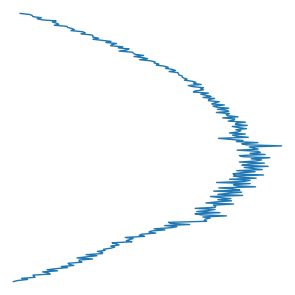
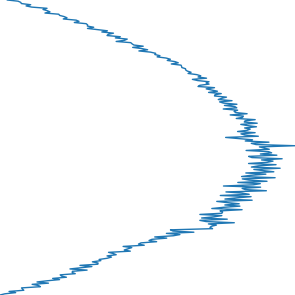
chore: Refactor code for generating horizontal and vertical sum plots
The code has been refactored to improve the generation of horizontal and vertical sum plots. The previous implementation used the `figure` function from `matplotlib.pyplot`, which has been replaced with the `subplots` function to provide more control over the plot size and resolution. The margins and layout have also been adjusted to remove unnecessary whitespace.

Changed region(s): [[0.0, 0.0, 1.0, 1.0]]

diff --git a/main.py b/main.py
@@ -2,7 +2,6 @@ import cv2
 import os
 import matplotlib.pyplot as plt
 import numpy as np
-from matplotlib.pyplot import figure
 from PIL import Image
 
 files = os.listdir("data")
@@ -30,29 +29,53 @@ for file in files:
     hsumup = [0] * len(gray)
     vsumup = [0] * len(gray[0])
 
-    #
-    # print (len(gray), " - ", len(gray[0]))
-
     for column in range(len(gray)):
         for line in range(len(gray[column])):
             hsumup[column] += int(gray[column][line])
             vsumup[line] += int(gray[column][line])
 
-    figure(figsize=(2.95, 2.95), dpi=100)
-    plt.plot(hsumup, np.arange(len(gray)), linewidth=1)
-    plt.axis("off")
-    plt.tight_layout(pad=0)
-    plt.savefig(f"output\\{file[:-4]}_hsumup.png", bbox_inches="tight", pad_inches=0)
-    plt.clf()
+    # Horizontal sum plot
+    dpi = 100
+    hsumup_width = 2.95 * dpi
+    hsumup_height = 2.95 * dpi
 
-    # print (vsumup)
+    fig_hsumup, ax_hsumup = plt.subplots(
+        figsize=(hsumup_width / dpi, hsumup_height / dpi), dpi=dpi
+    )
+    ax_hsumup.plot(hsumup, np.arange(len(gray)), linewidth=1)
+    ax_hsumup.axis("off")
 
-    figure(figsize=(12.80, 2.95), dpi=100)
-    plt.plot(vsumup, linewidth=1)
-    plt.axis("off")
-    plt.tight_layout(pad=0)
-    plt.savefig(f"output\\{file[:-4]}_vsumup.png", bbox_inches="tight", pad_inches=0)
-    plt.clf()
+    # Remove margins and tight layout
+    ax_hsumup.margins(0)
+    ax_hsumup.xaxis.set_major_locator(plt.NullLocator())
+    ax_hsumup.yaxis.set_major_locator(plt.NullLocator())
+
+    fig_hsumup.subplots_adjust(left=0, right=1, top=1, bottom=0)
+    fig_hsumup.savefig(
+        f"output\\{file[:-4]}_hsumup.png", dpi=dpi, bbox_inches="tight", pad_inches=0
+    )
+    plt.close(fig_hsumup)
+
+    # Vertical sum plot
+    vsumup_width = 12.80 * dpi
+    vsumup_height = 2.95 * dpi
+
+    fig_vsumup, ax_vsumup = plt.subplots(
+        figsize=(vsumup_width / dpi, vsumup_height / dpi), dpi=dpi
+    )
+    ax_vsumup.plot(vsumup, linewidth=1)
+    ax_vsumup.axis("off")
+
+    # Remove margins and tight layout
+    ax_vsumup.margins(0)
+    ax_vsumup.xaxis.set_major_locator(plt.NullLocator())
+    ax_vsumup.yaxis.set_major_locator(plt.NullLocator())
+
+    fig_vsumup.subplots_adjust(left=0, right=1, top=1, bottom=0)
+    fig_vsumup.savefig(
+        f"output\\{file[:-4]}_vsumup.png", dpi=dpi, bbox_inches="tight", pad_inches=0
+    )
+    plt.close(fig_vsumup)
 
     original_image = Image.open(f"output\\{file[:-4]}.bmp")
     hsumup_image = Image.open(f"output\\{file[:-4]}_hsumup.png")
